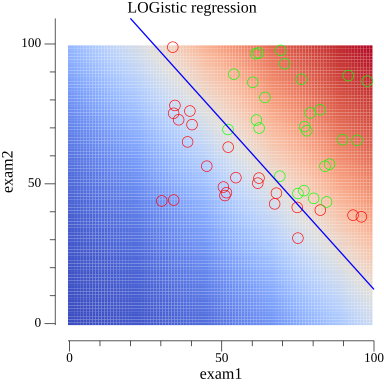
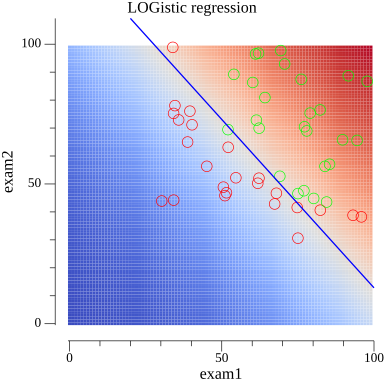
some cleaning

diff --git a/main.go b/main.go
@@ -29,7 +29,6 @@ func dot(a []float64, b []float64) (dot float64) {
 	}
 	return dot
 }
-
 func inference(inputs [][]float64, w []float64, b float64) (res []float64) {
 	res = make([]float64, len(inputs))
 	for i := 0; i < len(inputs); i++ {
@@ -48,7 +47,6 @@ func dCost(inputs [][]float64, y, p []float64) (dw []float64, db float64) {
 	}
 	return dw, db
 }
-
 func gradientDescent(inputs [][]float64, y, w []float64, alpha, b float64, epochs int) ([]float64, float64, []float64, float64) {
 	var dw []float64
 	var db float64
@@ -59,12 +57,9 @@ func gradientDescent(inputs [][]float64, y, w []float64, alpha, b float64, epoch
 			w[j] -= alpha * dw[j]
 		}
 		b -= alpha * db
-		//fmt.Println(dw, db)
-		//fmt.Println(w, b)
 	}
 	return w, b, dw, db
 }
-
 func accuracy(inputs [][]float64, y []float64, w []float64, b float64) float64 {
 	prediction := inference(inputs, w, b)
 	var truePos, trueNeg, falsePos, falseNeg float64
@@ -85,21 +80,14 @@ func accuracy(inputs [][]float64, y []float64, w []float64, b float64) float64 {
 	}
 	return (truePos + trueNeg) / (truePos + trueNeg + falsePos + falseNeg)
 }
-
 func split(data [][]string) (xTrain, xTest, kapusta [][]float64, yTrain, yTest []float64) {
-	half := len(data) / 2
-	segment := len(data[0])
-	xTrain = make([][]float64, half)
+	half, segment := len(data)/2, len(data[0])
+	xTrain, xTest = make([][]float64, half), make([][]float64, half)
 	for i := range xTrain {
 		xTrain[i] = make([]float64, segment-1)
-	}
-	yTrain = make([]float64, half)
-
-	xTest = make([][]float64, half)
-	for i := range xTest {
 		xTest[i] = make([]float64, segment-1)
 	}
-	yTest = make([]float64, half)
+	yTrain, yTest = make([]float64, half), make([]float64, half)
 
 	for i, row := range data[:half] {
 		for j := 0; j < 2; j++ {
@@ -107,7 +95,6 @@ func split(data [][]string) (xTrain, xTest, kapusta [][]float64, yTrain, yTest [
 		}
 		yTrain[i], _ = strconv.ParseFloat(row[2], 64)
 	}
-
 	for i, row := range data[half:] {
 		for j := 0; j < 2; j++ {
 			xTest[i][j], _ = strconv.ParseFloat(row[j], 64)
@@ -119,23 +106,11 @@ func split(data [][]string) (xTrain, xTest, kapusta [][]float64, yTrain, yTest [
 	for i := range data {
 		kapusta[i] = make([]float64, segment+1)
 	}
-	// kapusta = data[0], data[1], y
 	for i := range data {
 		kapusta[i][0], _ = strconv.ParseFloat(data[i][0], 64)
 		kapusta[i][1], _ = strconv.ParseFloat(data[i][1], 64)
-		//kapusta[i][2], _ = strconv.ParseFloat(data[i][2], 64)
 	}
-
-	//fmt.Println(xTrain, xTest, yTrain, yTest)
 	return xTrain, xTest, kapusta, yTrain, yTest
-}
-
-type plottable struct {
-	grid       [][]float64
-	N          int
-	M          int
-	resolution float64
-	f          func(c, r int) float64
 }
 
 func main() {
@@ -183,7 +158,6 @@ func main() {
 	plotData.grid = kapusta
 	plotData.N = len(kapusta)
 	plotData.M = len(kapusta)
-	plotData.resolution = 1
 	plotData.f = func(c, r int) float64 {
 		return sigmoid(dot([]float64{float64(c), float64(r)}, w) + b)
 	}
@@ -222,37 +196,25 @@ func main() {
 	if err := p.Save(4*vg.Inch, 4*vg.Inch, "scatter.png"); err != nil {
 		panic(err)
 	}
-	// draw heatmap
 	// special thanks to
 	//https://medium.com/@balazs.dianiska/generating-heatmaps-with-go-83988b22c000
-	// The only question is
-	// what does the heatmap show?
-	// how to tweak values for the best result?
-	// kapusta?
-	//ph := plot.New()
-	// var plotData plottable
-	// plotData.grid = kapusta
-	// plotData.N = len(kapusta)
-	// plotData.M = len(kapusta)
-	// plotData.resolution = 1
-	// plotData.f = func(c, r int) float64 {
-	// 	return sigmoid(dot([]float64{float64(c), float64(r)}, w) + b)
-	// }
-	// pal := moreland.SmoothBlueRed().Palette(255)
-	// heatmap := plotter.NewHeatMap(plotData, pal)
-	// p.Add(heatmap)
-	// if err := p.Save(4*vg.Inch, 4*vg.Inch, "heatmap.png"); err != nil {
-	// 	panic(err)
-	// }
 }
+
+type plottable struct {
+	grid [][]float64
+	N    int
+	M    int
+	f    func(c, r int) float64
+}
+
 func (p plottable) Dims() (c, r int) {
 	return p.N, p.M
 }
 func (p plottable) X(c int) float64 {
-	return float64(c) * p.resolution
+	return float64(c)
 }
 func (p plottable) Y(r int) float64 {
-	return float64(r) * p.resolution
+	return float64(r)
 }
 func (p plottable) Z(c, r int) float64 {
 	return p.f(c, r)
